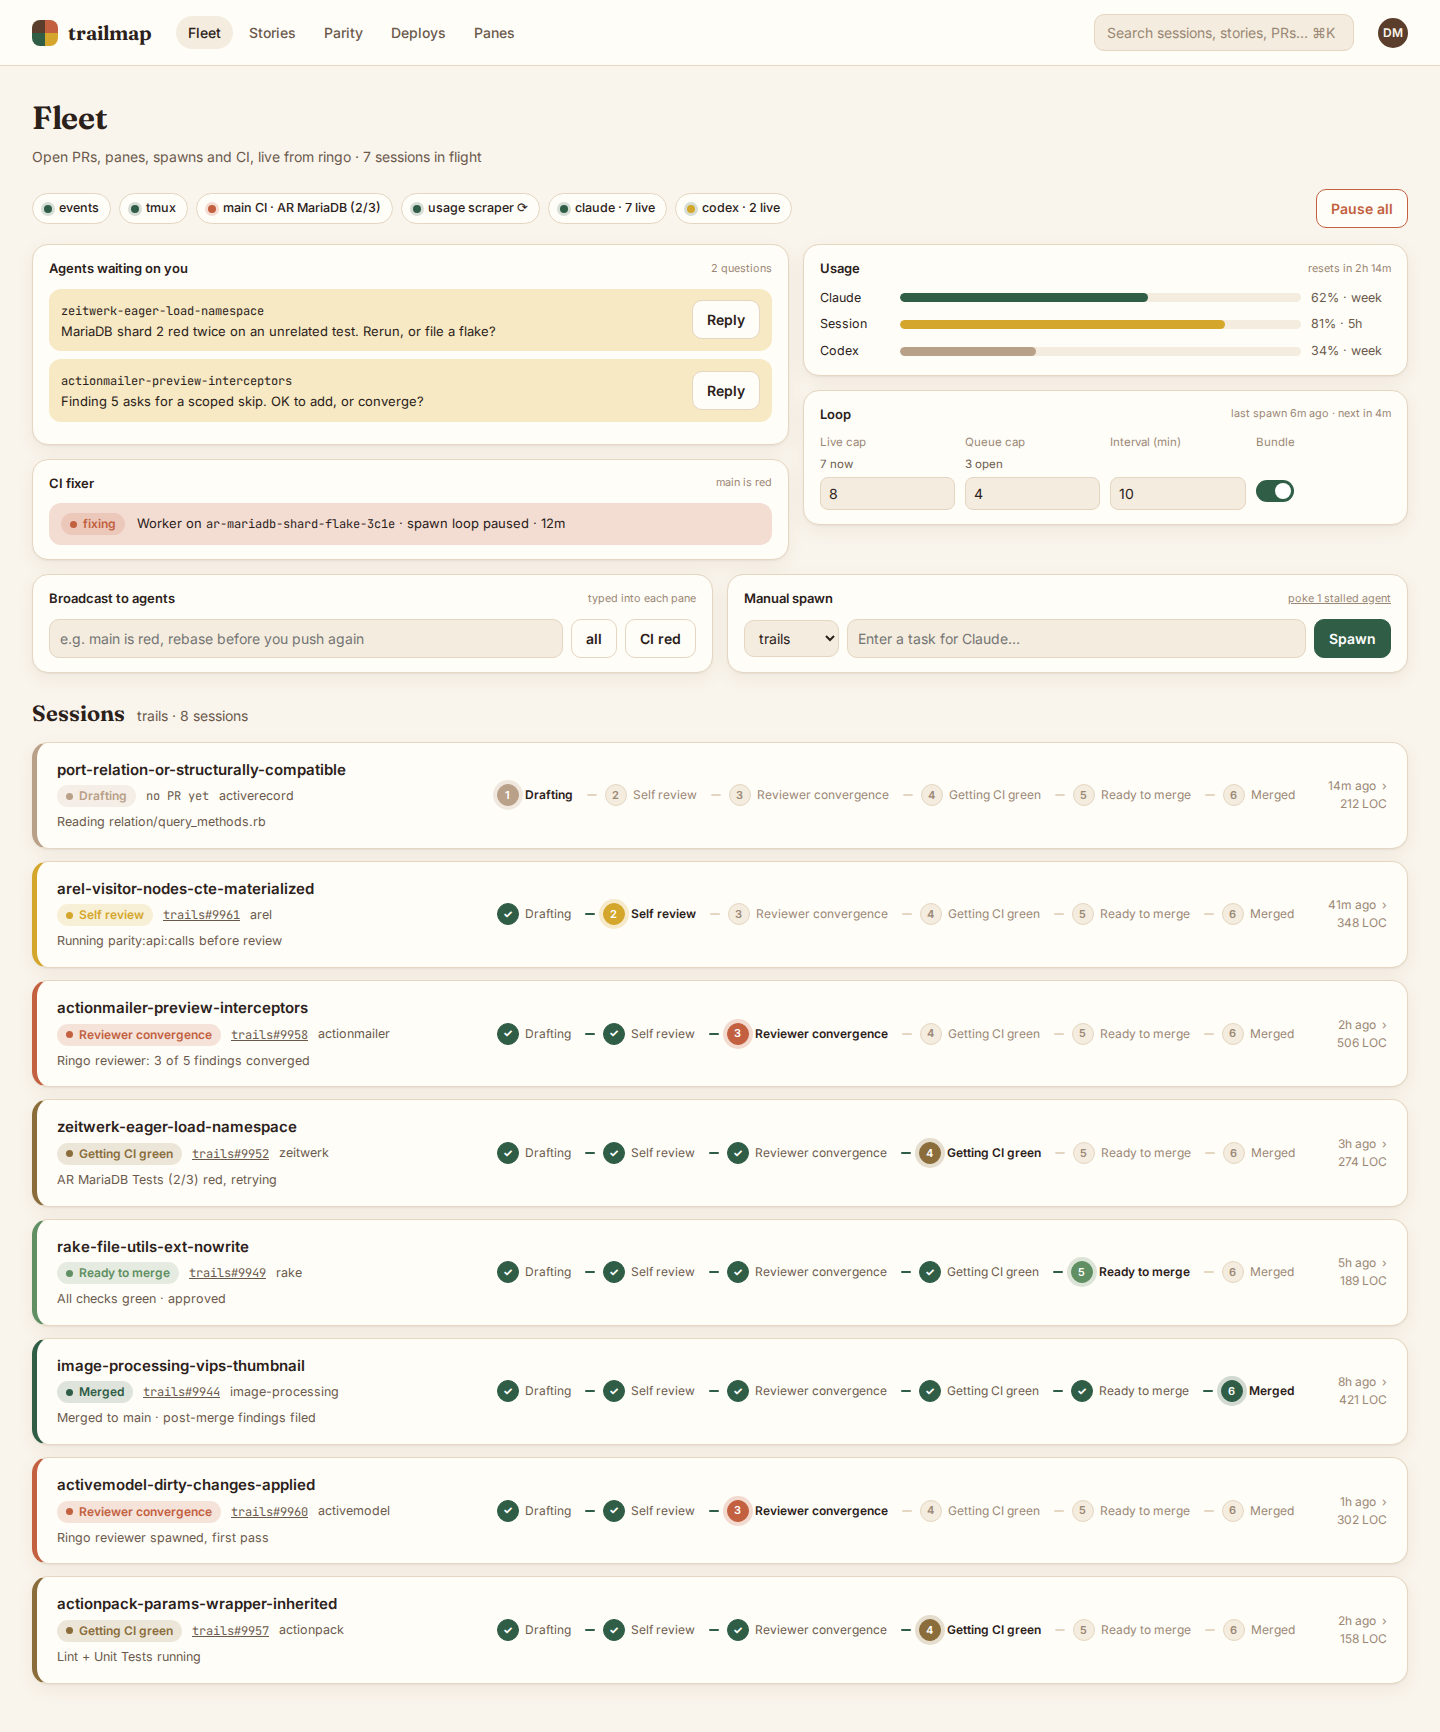
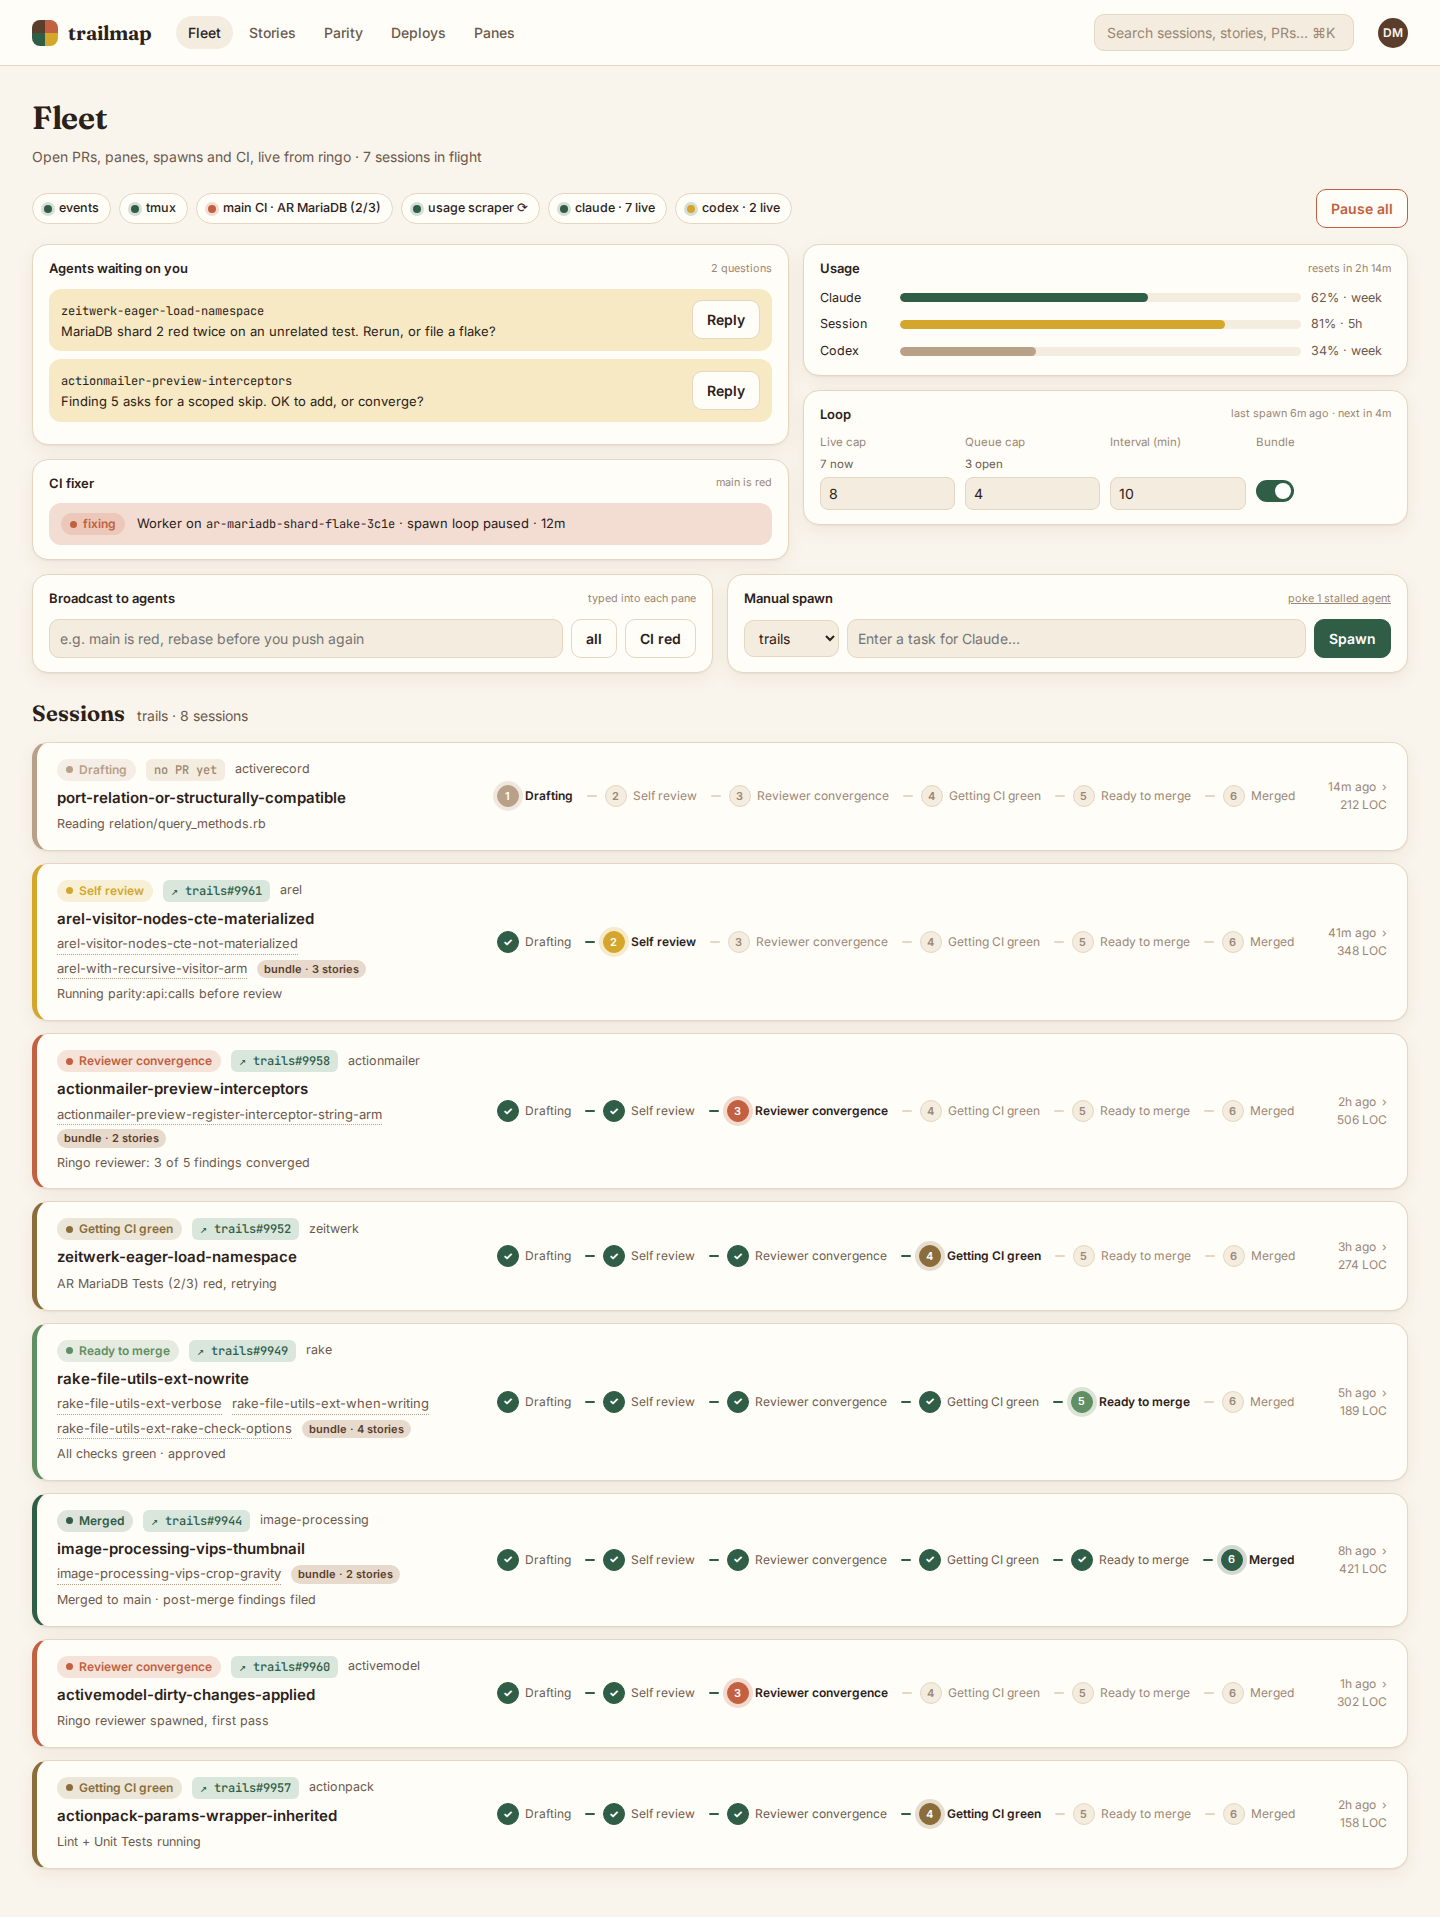
docs(concepts): link every bundled story and the PR from a collapsed session row

diff --git a/concepts/redesign/data.js b/concepts/redesign/data.js
@@ -10,11 +10,11 @@ window.STAGES = [
 
 window.SESSIONS = [
   { id: "s1", stage: "drafting", story: "port-relation-or-structurally-compatible", rfc: "0047", pr: null, branch: "relation-or-compat-4a1c", pkg: "activerecord", loc: 212, age: "14m", note: "Reading relation/query_methods.rb" },
-  { id: "s2", stage: "self", story: "arel-visitor-nodes-cte-materialized", rfc: "0112", pr: 9961, branch: "arel-cte-materialized-77e0", pkg: "arel", loc: 348, age: "41m", note: "Running parity:api:calls before review" },
-  { id: "s3", stage: "ringo", story: "actionmailer-preview-interceptors", rfc: "0188", pr: 9958, branch: "mailer-preview-intc-2b9d", pkg: "actionmailer", loc: 506, age: "2h", note: "Ringo reviewer: 3 of 5 findings converged", ringo: { done: 3, total: 5 } },
-  { id: "s4", stage: "ci", story: "zeitwerk-eager-load-namespace", rfc: "0151", pr: 9952, branch: "zeitwerk-eager-ns-c013", pkg: "zeitwerk", loc: 274, age: "3h", note: "AR MariaDB Tests (2/3) red, retrying", ci: { pass: 41, fail: 1, run: 3 } },
-  { id: "s5", stage: "ready", story: "rake-file-utils-ext-nowrite", rfc: "0203", pr: 9949, branch: "rake-nowrite-9d2a", pkg: "rake", loc: 189, age: "5h", note: "All checks green · approved" },
-  { id: "s6", stage: "merged", story: "image-processing-vips-thumbnail", rfc: "0199", pr: 9944, branch: "vips-thumbnail-e1f7", pkg: "image-processing", loc: 421, age: "8h", note: "Merged to main · post-merge findings filed" },
+  { id: "s2", stories: ["arel-visitor-nodes-cte-materialized", "arel-visitor-nodes-cte-not-materialized", "arel-with-recursive-visitor-arm"], stage: "self", story: "arel-visitor-nodes-cte-materialized", rfc: "0112", pr: 9961, branch: "arel-cte-materialized-77e0", pkg: "arel", loc: 348, age: "41m", note: "Running parity:api:calls before review" },
+  { id: "s3", stories: ["actionmailer-preview-interceptors", "actionmailer-preview-register-interceptor-string-arm"], stage: "ringo", story: "actionmailer-preview-interceptors", rfc: "0188", pr: 9958, branch: "mailer-preview-intc-2b9d", pkg: "actionmailer", loc: 506, age: "2h", note: "Ringo reviewer: 3 of 5 findings converged", ringo: { done: 3, total: 5 } },
+  { id: "s4", stories: ["zeitwerk-eager-load-namespace"], stage: "ci", story: "zeitwerk-eager-load-namespace", rfc: "0151", pr: 9952, branch: "zeitwerk-eager-ns-c013", pkg: "zeitwerk", loc: 274, age: "3h", note: "AR MariaDB Tests (2/3) red, retrying", ci: { pass: 41, fail: 1, run: 3 } },
+  { id: "s5", stories: ["rake-file-utils-ext-nowrite", "rake-file-utils-ext-verbose", "rake-file-utils-ext-when-writing", "rake-file-utils-ext-rake-check-options"], stage: "ready", story: "rake-file-utils-ext-nowrite", rfc: "0203", pr: 9949, branch: "rake-nowrite-9d2a", pkg: "rake", loc: 189, age: "5h", note: "All checks green · approved" },
+  { id: "s6", stories: ["image-processing-vips-thumbnail", "image-processing-vips-crop-gravity"], stage: "merged", story: "image-processing-vips-thumbnail", rfc: "0199", pr: 9944, branch: "vips-thumbnail-e1f7", pkg: "image-processing", loc: 421, age: "8h", note: "Merged to main · post-merge findings filed" },
   { id: "s7", stage: "ringo", story: "activemodel-dirty-changes-applied", rfc: "0197", pr: 9960, branch: "am-dirty-applied-5c3b", pkg: "activemodel", loc: 302, age: "1h", note: "Ringo reviewer spawned, first pass", ringo: { done: 0, total: 4 } },
   { id: "s8", stage: "ci", story: "actionpack-params-wrapper-inherited", rfc: "0164", pr: 9957, branch: "params-wrapper-inh-0aa8", pkg: "actionpack", loc: 158, age: "2h", note: "Lint + Unit Tests running", ci: { pass: 28, fail: 0, run: 14 } },
 ];

diff --git a/concepts/redesign/b-stepper-list.html b/concepts/redesign/b-stepper-list.html
@@ -42,6 +42,14 @@
 .card-main { display: grid; grid-template-columns: minmax(260px, 1.1fr) minmax(480px, 2fr) 110px; gap: 24px; align-items: center; padding: 16px 20px; cursor: pointer; }
 .card h3 { margin: 0 0 4px; font-size: 15px; font-weight: 600; }
 .meta { display: flex; gap: 10px; align-items: center; flex-wrap: wrap; color: var(--ink-2); font-size: 12.5px; }
+.stories { display: flex; flex-wrap: wrap; gap: 4px 10px; align-items: baseline; }
+.story { font-size: 13px; color: var(--ink-2); text-decoration: none; border-bottom: 1px dotted var(--clay); }
+.story:hover { color: var(--terracotta); border-color: var(--terracotta); }
+.story.lead { font-size: 15px; font-weight: 600; color: var(--ink); flex: 0 0 100%; border: 0; word-break: break-word; }
+.batch { font-size: 11px; font-weight: 600; color: var(--soil); background: var(--soil-soft); padding: 1px 7px; border-radius: 99px; }
+.pr-link { font-family: var(--mono); font-size: 12px; font-weight: 500; color: var(--forest); text-decoration: none; background: var(--forest-soft); padding: 2px 8px; border-radius: 6px; }
+.pr-link:hover { background: var(--forest); color: #fff; }
+.pr-link.none { color: var(--ink-3); background: var(--surface-2); }
 .note { color: var(--ink-2); font-size: 12.5px; margin-top: 6px; }
 .right { text-align: right; color: var(--ink-3); font-size: 12px; }
 .caret { display: inline-block; transition: transform .2s; margin-left: 6px; }
@@ -86,6 +94,7 @@
 <body>
 <div id="app"></div>
 <script>
+const storyList = (s) => s.stories || [s.story];
 const side = (s) => `
   <div class="side">
     <h4>Session</h4>
@@ -157,8 +166,8 @@ document.getElementById("app").innerHTML = topbar() + `
     <article class="card stage-${s.stage} ${openId === s.id ? "open" : ""}">
       <div class="card-main">
         <div>
-          <h3>${s.story}</h3>
-          <div class="meta">${stageChip(s.stage)} ${prLink(s)} <span>${s.pkg}</span></div>
+          <div class="meta" style="margin-bottom:6px">${stageChip(s.stage)} ${s.pr ? `<a class="pr-link" href="#" onclick="event.stopPropagation()">↗ trails#${s.pr}</a>` : `<span class="pr-link none">no PR yet</span>`} <span>${s.pkg}</span></div>
+          <div class="stories">${storyList(s).map((id, i) => `<a href="#" class="story${i === 0 ? " lead" : ""}" onclick="event.stopPropagation()">${id}</a>`).join("")}${storyList(s).length > 1 ? `<span class="batch">bundle · ${storyList(s).length} stories</span>` : ""}</div>
           <div class="note">${s.note}</div>
         </div>
         ${stepper(s.stage)}
